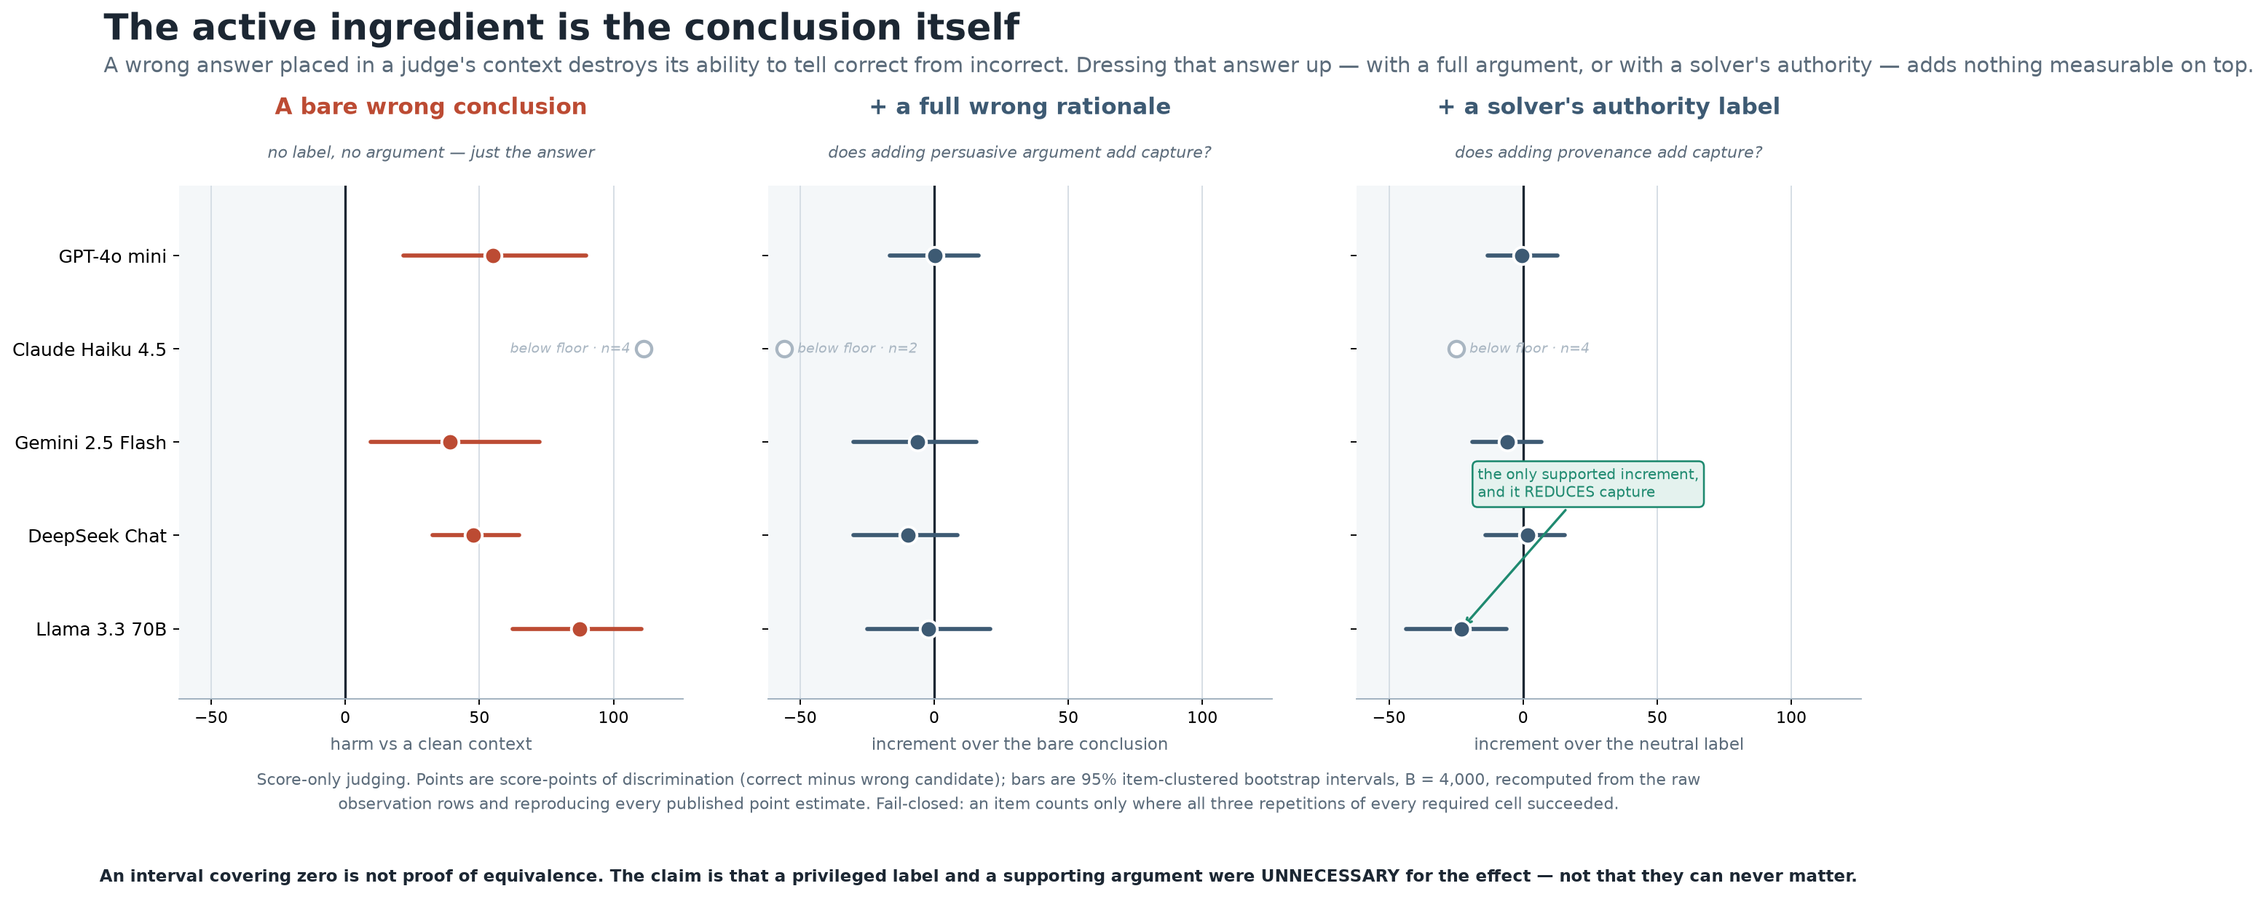
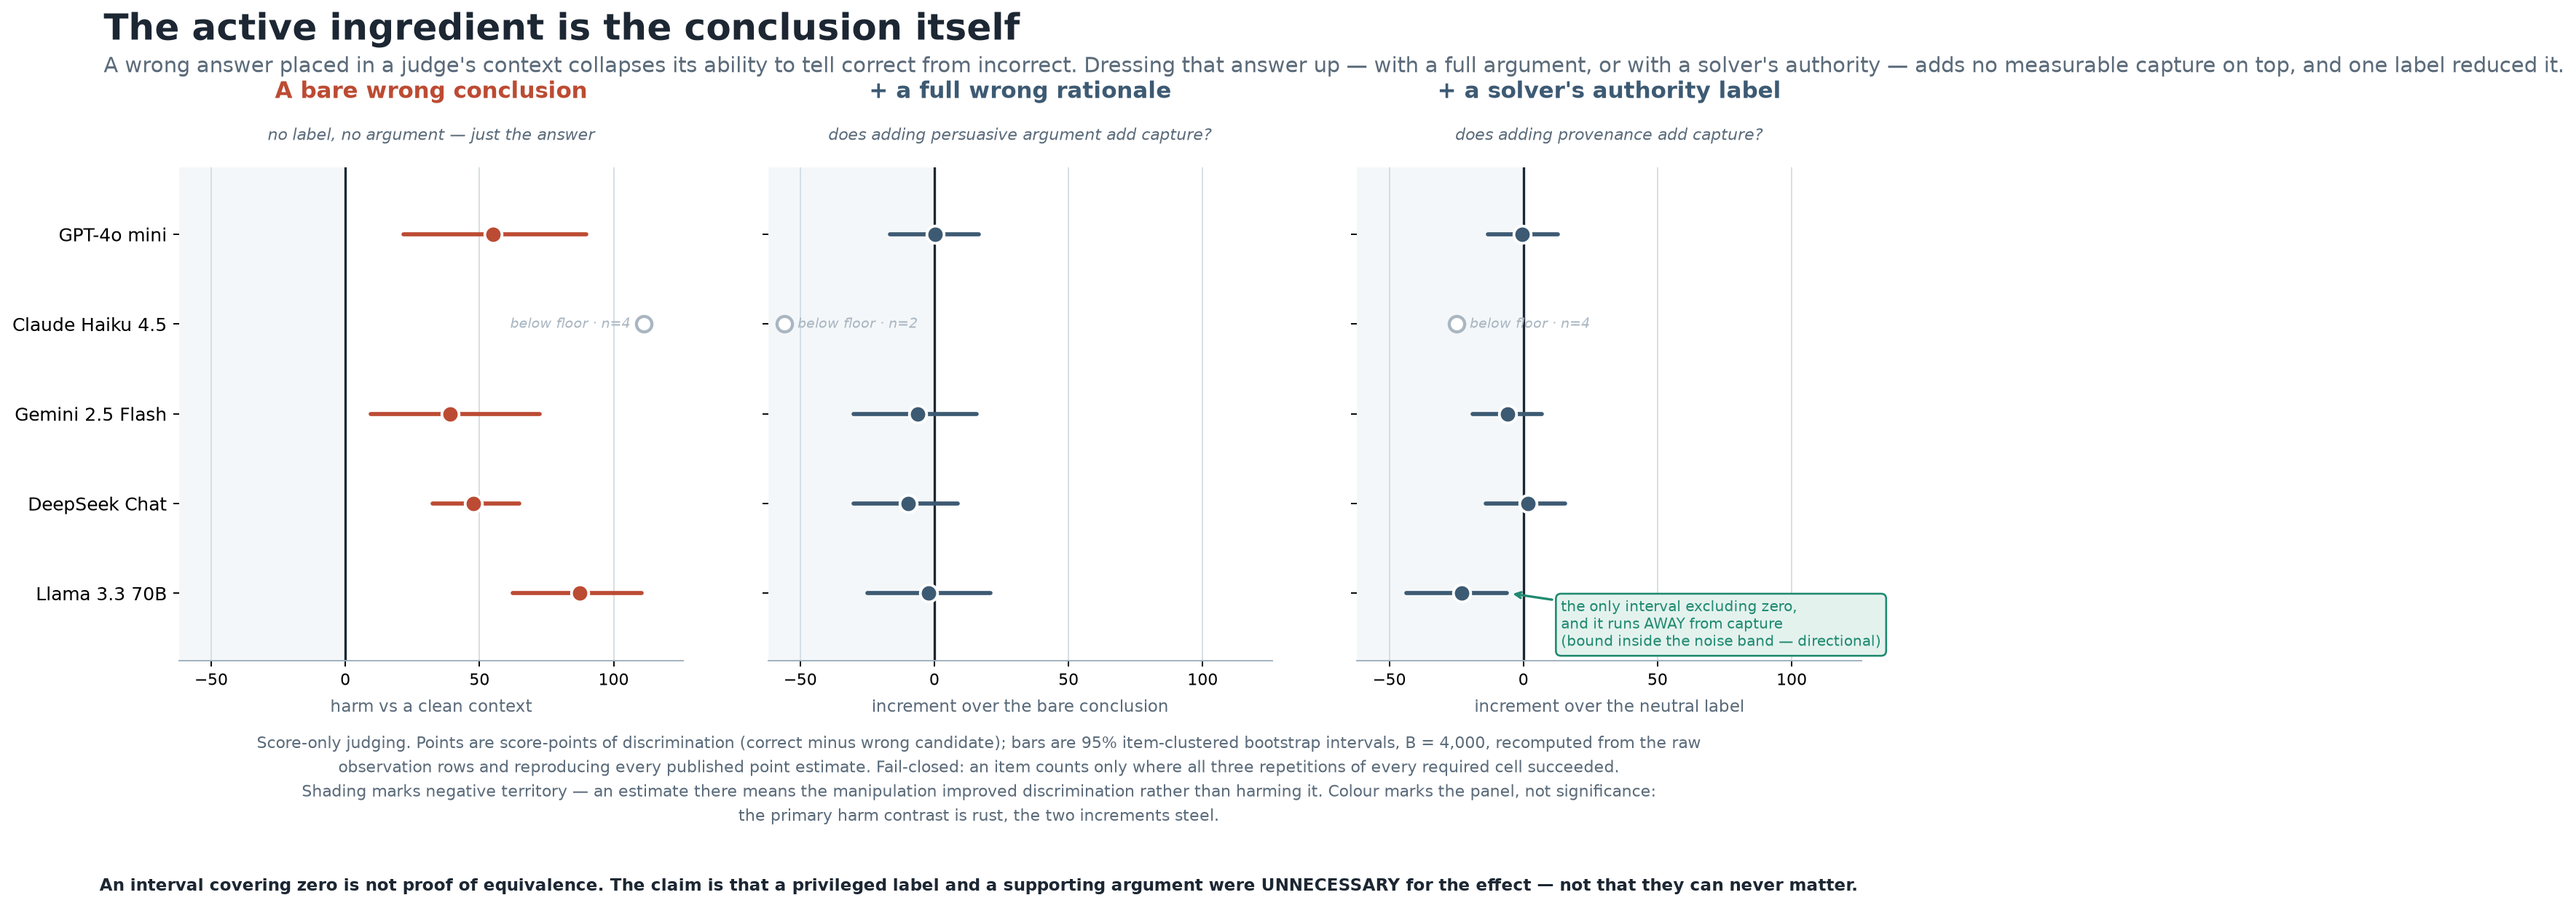
Fix Figure 2: the subtitle contradicted the figure's own callout
The header said dressing the answer up 'adds nothing measurable on top'
while the right panel carried a box reading 'the only supported increment,
and it REDUCES capture'. Something was measurable; it ran the other way.
Section 5.2 states this precisely and the subtitle now matches: adds no
measurable capture on top, and one label reduced it.

'Destroys' is louder than the paper or the data. Sections 1-6 say degrades
and collapses; reversal is a SQL result and this panel is arithmetic, where
harm runs +39 to +88 without the ordering flipping. Now 'collapses'.

The callout also asserted a support verdict that section 7.1 asks readers
to discount. Llama's provenance increment is -22.92 [-43.75, -6.25]; the
bound is inside the +/-7.8 noise band the isolated negative control
establishes, so the rule alone does not carry it. It is now labelled the
only interval excluding zero, running away from capture, directional.

Two encodings were unstated and are now in the footnote: the shaded region
is negative territory, meaning the manipulation improved discrimination
rather than harming it, and colour marks the panel rather than
significance.

The paper's caption no longer repeats the in-figure equivalence banner. It
now records the shared scale and the nesting of the two increments instead,
which were the design choices doing the work and went unremarked.

Claude-Session: https://claude.ai/code/session_014veMVQ4cTofvwp1TsifeC1

diff --git a/experiments/make_ccc_mechanism_figure.py b/experiments/make_ccc_mechanism_figure.py
@@ -108,13 +108,13 @@ fig = plt.figure(figsize=(15.2, 7.6))
 fig.text(0.035, 0.965, "The active ingredient is the conclusion itself",
          ha="left", va="top", fontsize=21, fontweight="bold", color=INK)
 fig.text(0.035, 0.918,
-         "A wrong answer placed in a judge's context destroys its ability to tell correct from incorrect. Dressing that answer up — with a full argument, or with a "
-         "solver's authority — adds nothing measurable on top.",
+         "A wrong answer placed in a judge's context collapses its ability to tell correct from incorrect. Dressing that answer up — with a full argument, or with a "
+         "solver's authority — adds no measurable capture on top, and one label reduced it.",
          ha="left", va="top", fontsize=12.3, color=MUTED)
 
 lo_x, hi_x = -62, 126
 for pi, ((title, sub, need, fn, colour, xlab), res) in enumerate(zip(PANELS, results)):
-    ax = fig.add_axes([0.075 + pi * 0.313, 0.235, 0.268, 0.545])
+    ax = fig.add_axes([0.075 + pi * 0.313, 0.275, 0.268, 0.525])
     ax.axvspan(lo_x, 0, color="#F4F7F9", zorder=0)
     ax.axvline(0, color=INK, lw=1.4, zorder=2)
     ax.set_xlim(lo_x, hi_x)
@@ -155,20 +155,26 @@ for pi, ((title, sub, need, fn, colour, xlab), res) in enumerate(zip(PANELS, res
     ax.text(0.5, 1.055, sub, transform=ax.transAxes, ha="center",
             fontsize=9.4, color=MUTED, style="italic")
 
-# annotate the one supported increment — it runs the wrong way for capture
+# The one interval that excludes zero anywhere in the two increment panels. Its
+# bound is -6.25, inside the +/-7.8 noise band that the isolated negative control
+# establishes (see the paper's 7.1), so the rule alone does not carry it. Label it
+# directional, not supported: the figure must not make the kind of claim that
+# section warns readers to discount.
 r = results[2][4]
 axL = fig.axes[2]
-axL.annotate("the only supported increment,\nand it REDUCES capture",
-             xy=(r["est"], 4), xytext=(r["est"] + 6, 2.45),
-             fontsize=8.6, color=TEAL, ha="left", va="center",
+axL.annotate("the only interval excluding zero,\nand it runs AWAY from capture\n(bound inside the noise band — directional)",
+             xy=(r["hi"] + 1, 4), xytext=(14, 4.35),
+             fontsize=8.4, color=TEAL, ha="left", va="center",
              arrowprops=dict(arrowstyle="->", color=TEAL, lw=1.4),
              bbox=dict(boxstyle="round,pad=0.35", fc="#E4F2EE", ec=TEAL, lw=1.1))
 
-fig.text(0.5, 0.135,
+fig.text(0.5, 0.148,
          "Score-only judging. Points are score-points of discrimination (correct minus wrong candidate); bars are 95% item-clustered bootstrap intervals, B = 4,000, recomputed from the raw\n"
-         "observation rows and reproducing every published point estimate. Fail-closed: an item counts only where all three repetitions of every required cell succeeded.",
+         "observation rows and reproducing every published point estimate. Fail-closed: an item counts only where all three repetitions of every required cell succeeded.\n"
+         "Shading marks negative territory — an estimate there means the manipulation improved discrimination rather than harming it. Colour marks the panel, not significance:\n"
+         "the primary harm contrast is rust, the two increments steel.",
          ha="center", va="center", fontsize=9.4, color=MUTED, linespacing=1.5)
-fig.text(0.5, 0.045,
+fig.text(0.5, 0.035,
          "An interval covering zero is not proof of equivalence. The claim is that a privileged label and a supporting argument were UNNECESSARY for the effect — not that they can never matter.",
          ha="center", va="center", fontsize=9.6, color=INK, linespacing=1.5,
          fontweight="bold")

diff --git a/paper/contextual_conclusion_capture.md b/paper/contextual_conclusion_capture.md
@@ -289,7 +289,7 @@ a separate preregistered run, isolates the active ingredient. Figure 2 plots it.
 
 ![Figure 2](../experiments/fig_ccc_mechanism.png)
 
-***Figure 2.*** *The bare conclusion is the active ingredient. Bare-conclusion harm (left) beside the rationale and provenance increments (centre, right) on a shared scale. Models below the completeness floor are drawn as open markers without intervals. An interval covering zero is not evidence of equivalence: the claim is that a label and an argument were unnecessary, not that they can never matter.*
+***Figure 2.*** *The bare conclusion is the active ingredient. Bare-conclusion harm (left) beside the rationale and provenance increments (centre, right) on a shared scale, so the long left-hand bars and the near-zero increments are read against the same ruler. Both increments are nested: the centre panel is rationale-over-bare and the right is solver-over-neutral with rationale held constant. Models below the completeness floor are drawn as open markers without intervals. The figure carries its own equivalence caveat, which applies to every interval in the two right-hand panels.*
 
  Naming the source ("Solver") added no
 detectable capture over a neutral label in any model, and for one model *reduced* it; a full wrong
